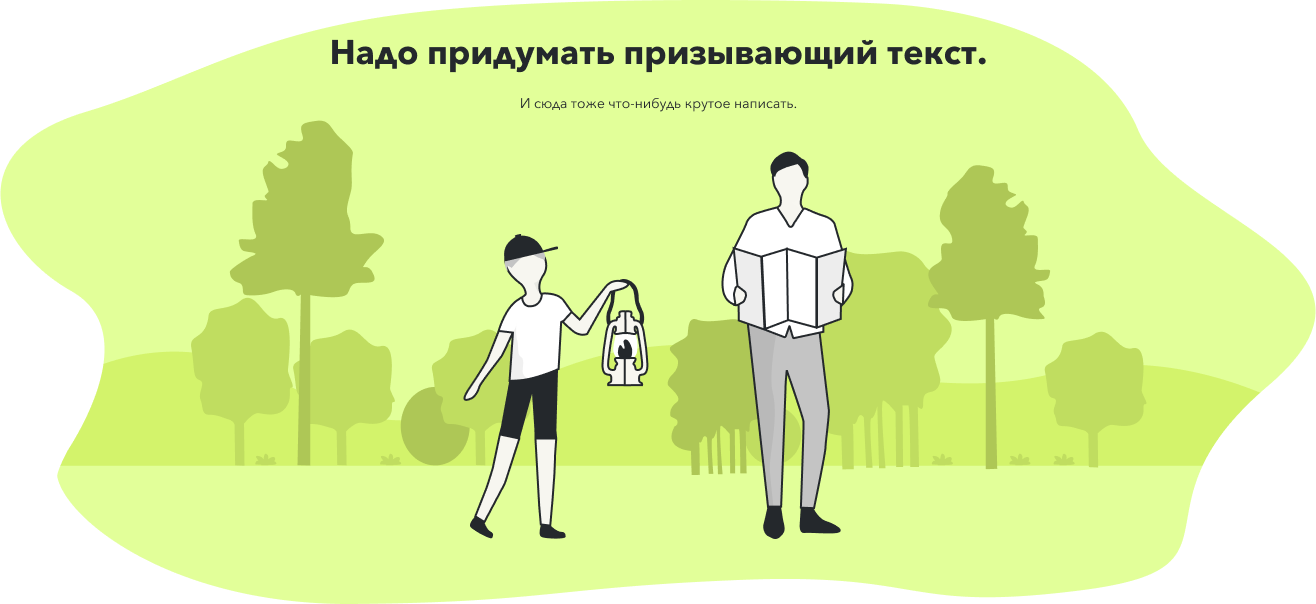
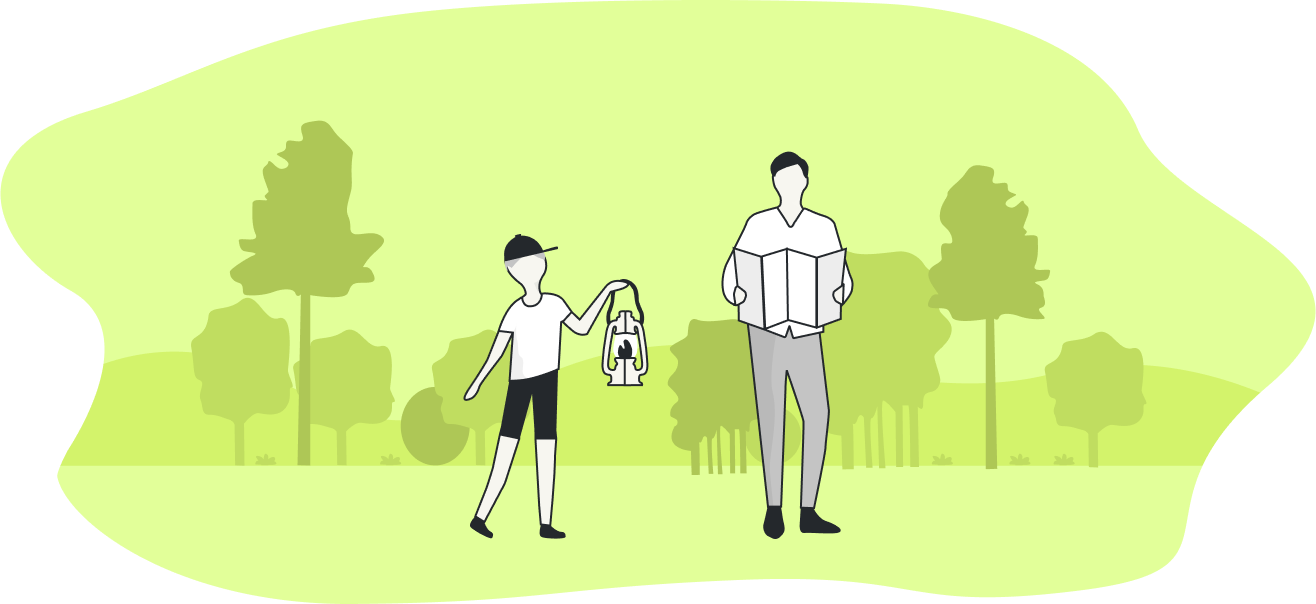
Обновил тексты и иконку

Changed region(s): [[0.2492, 0.0596, 0.7477, 0.1192], [0.405, 0.149, 0.5919, 0.1788]]

diff --git a/src/components/mainPage/initialComponent.vue b/src/components/mainPage/initialComponent.vue
@@ -1,6 +1,10 @@
 <template>
   <main class="main initial">
-    <img src="../../assets/imgs/initial_img.png" alt="" />
+    <div class="main-img">
+      <img src="../../assets/imgs/initial_img.png" alt="" />
+      <div class="img-title">Управляй Аурой своих путешествий</div>
+      <div class="img-text">Приведи в порядок свою планету</div>
+    </div>
     <router-link to="/profile/signup">
       <button class="single-button initial">
         <img
@@ -30,16 +34,14 @@
         <div class="about-text">
           О нас
           <p>
-            Lorem ipsum dolor sit amet, consectetur adipiscing elit. Mauris eu
-            et venenatis auctor eget scelerisque ac rhoncus. Porttitor turpis
-            sed libero elit faucibus quam. Hac tortor purus, netus nunc, aenean.
-            Hac urna mauris, euismod placerat sodales volutpat. Aliquet enim
-            convallis ipsum orci et elementum rhoncus, mauris nibh. Pellentesque
-            gravida id vitae arcu. Blandit sit fermentum lorem tincidunt
-            ultrices amet viverra. Mauris eget in nec elit in. Enim sed eget
-            pellentesque non dapibus in mattis. Nisl amet porttitor gravida
-            pellentesque mi praesent suspendisse porta. In lorem ornare nisi,
-            non ac sagittis, viverra diam. Auctor in convallis in viverra.
+            Мы – молодая команда неравнодушных к окружающему миру
+            единомышленников. Каждый из нас пытается сделать этот мир немного
+            лучше. В AuraSolutions мы объединили свои силы для того, чтобы
+            создавать современные технологические продукты, которые будут
+            находить отклик в каждом осознанном человеке. В нашей работе мы
+            открыты для сотрудничества и обсуждения вопросов, Вы всегда сможете
+            связаться с нами. Мы всегда готовы к диалогу и с нетерпением ждем
+            Ваших идей.
           </p>
         </div>
       </div>
@@ -47,16 +49,16 @@
         <div class="about-text project">
           О проекте
           <p>
-            Lorem ipsum dolor sit amet, consectetur adipiscing elit. Mauris eu
-            et venenatis auctor eget scelerisque ac rhoncus. Porttitor turpis
-            sed libero elit faucibus quam. Hac tortor purus, netus nunc, aenean.
-            Hac urna mauris, euismod placerat sodales volutpat. Aliquet enim
-            convallis ipsum orci et elementum rhoncus, mauris nibh. Pellentesque
-            gravida id vitae arcu. Blandit sit fermentum lorem tincidunt
-            ultrices amet viverra. Mauris eget in nec elit in. Enim sed eget
-            pellentesque non dapibus in mattis. Nisl amet porttitor gravida
-            pellentesque mi praesent suspendisse porta. In lorem ornare nisi,
-            non ac sagittis, viverra diam. Auctor in convallis in viverra.
+            Проект «Аура» представляет собой первый некоммерческий агрегатор
+            объектов экологической направленности, включающих в себя
+            туристические маршруты, объекты, события и точки сортировки мусора.
+            В текущей момент Вы можете участвовать в уборке представленных на
+            сервисе объектов и оставлять отчеты о своих успехах, а также
+            делиться о них со своими друзьями. В ближайшее время наш функционал
+            расширится, и Вы сможете бронировать объекты, связанные с
+            экологическим туризмом, а также добавлять их самостоятельно,
+            организовывать на них мероприятия и участвовать в них.
+            Присоединяйтесь и улучшайте свою Ауру!
           </p>
         </div>
         <img src="../../assets/imgs/aboutProject_img.png" alt="" />
@@ -66,16 +68,16 @@
         <div class="about-text">
           Об экотуризме
           <p>
-            Lorem ipsum dolor sit amet, consectetur adipiscing elit. Mauris eu
-            et venenatis auctor eget scelerisque ac rhoncus. Porttitor turpis
-            sed libero elit faucibus quam. Hac tortor purus, netus nunc, aenean.
-            Hac urna mauris, euismod placerat sodales volutpat. Aliquet enim
-            convallis ipsum orci et elementum rhoncus, mauris nibh. Pellentesque
-            gravida id vitae arcu. Blandit sit fermentum lorem tincidunt
-            ultrices amet viverra. Mauris eget in nec elit in. Enim sed eget
-            pellentesque non dapibus in mattis. Nisl amet porttitor gravida
-            pellentesque mi praesent suspendisse porta. In lorem ornare nisi,
-            non ac sagittis, viverra diam. Auctor in convallis in viverra.
+            Экотуризм в России предоставляет непередаваемые возможности для
+            путешественников, желающих насладиться красотой природы и
+            экологически чистыми уголками нашей страны. Данный вид отдыха
+            позволяет не только прикоснуться к природе, но и сохранить её
+            богатство природы для будущих поколений, парки, заповедники,
+            экологические отели и туристические маршруты являются точками
+            соприкосновения с ней. Мы хотим внести в это взаимодействие принцип
+            «Приведи в порядок свою планету», чтобы отдых на свежем воздухе нес
+            пользу не только людям, но и окружающему их миру. Присоединяйтесь к
+            нам вместе с «Аурой»!
           </p>
         </div>
       </div>

diff --git a/src/components/headerComponent.vue b/src/components/headerComponent.vue
@@ -3,13 +3,7 @@
   <header class="header">
     <router-link to="/" class="name-page" @click="changePage">
       <div class="logo">
-        <img
-          class="cirlce-img"
-          src="../assets/imgs/logo.png"
-          alt="Logo Aura"
-          style="margin-right: 12px"
-        />
-        <p class="logo-name">{{ title }}</p>
+        <img src="../assets/imgs/logo_main.png" alt="Logo Aura" height="50" />
       </div>
     </router-link>
     <nav class="navs navs-header nav-titles">
@@ -95,7 +89,11 @@
       </router-link>
 
       <router-link
-        :to="userId.value ? { name: 'profileReports', params: { id: userId.value } } : ''"
+        :to="
+          userId.value
+            ? { name: 'profileReports', params: { id: userId.value } }
+            : ''
+        "
         class="a-header profile"
         @click="changePage(authenticated)"
         :class="userId.value ? '' : 'disabled'"

diff --git a/src/css/style.css b/src/css/style.css
@@ -106,6 +106,29 @@ img {
   margin-bottom: 82px;
 }
 
+.main-img {
+  position: relative;
+  text-align: center;
+}
+
+.img-title {
+  position: absolute;
+  top: 10%;
+  left: 50%;
+  transform: translate(-50%, -50%);
+  font-weight: bold;
+  font-size: 37px;
+}
+
+.img-text {
+  position: absolute;
+  top: 20%;
+  left: 50%;
+  transform: translate(-50%, -50%);
+  font-weight: 500;
+  font-size: 22px;
+}
+
 button {
   cursor: pointer;
 }
@@ -894,7 +917,7 @@ button {
   display: flex;
   flex-direction: column;
   padding: 32px;
-  gap: 32px;
+  gap: 26px;
   background: #FFFFFF;
   border-radius: 25px;
   font-weight: 700;
@@ -903,6 +926,7 @@ button {
 }
 
 .about-text>p {
+  text-align: justify;
   font-weight: 400;
   font-size: 14px;
   line-height: 19px;
@@ -967,7 +991,7 @@ button {
 
 .about-project {
   display: flex;
-  gap: 12px;
+  gap: 40px;
 }
 
 .info-version>p:last-child {
